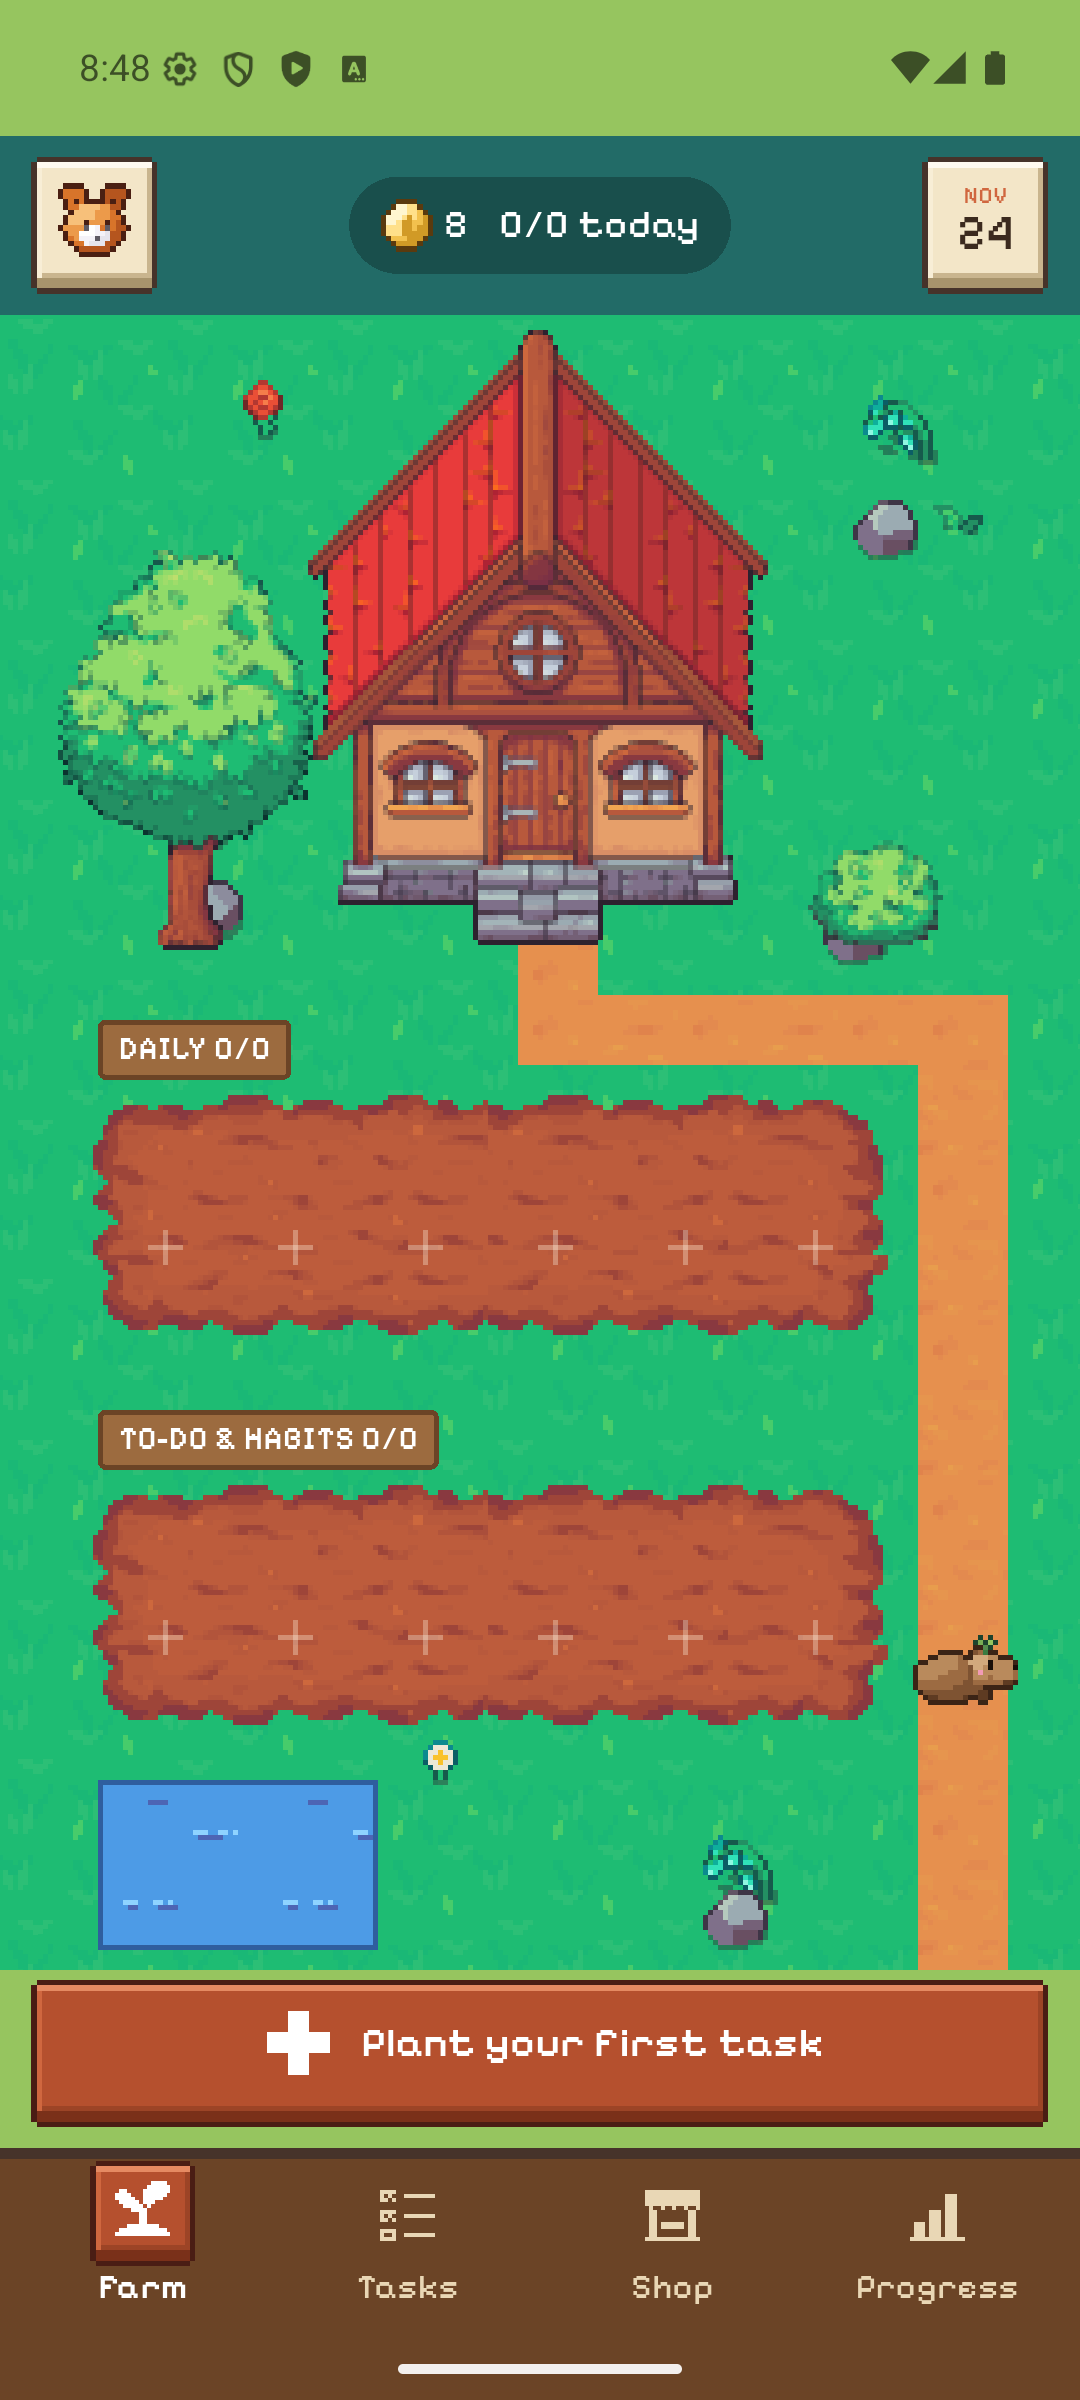
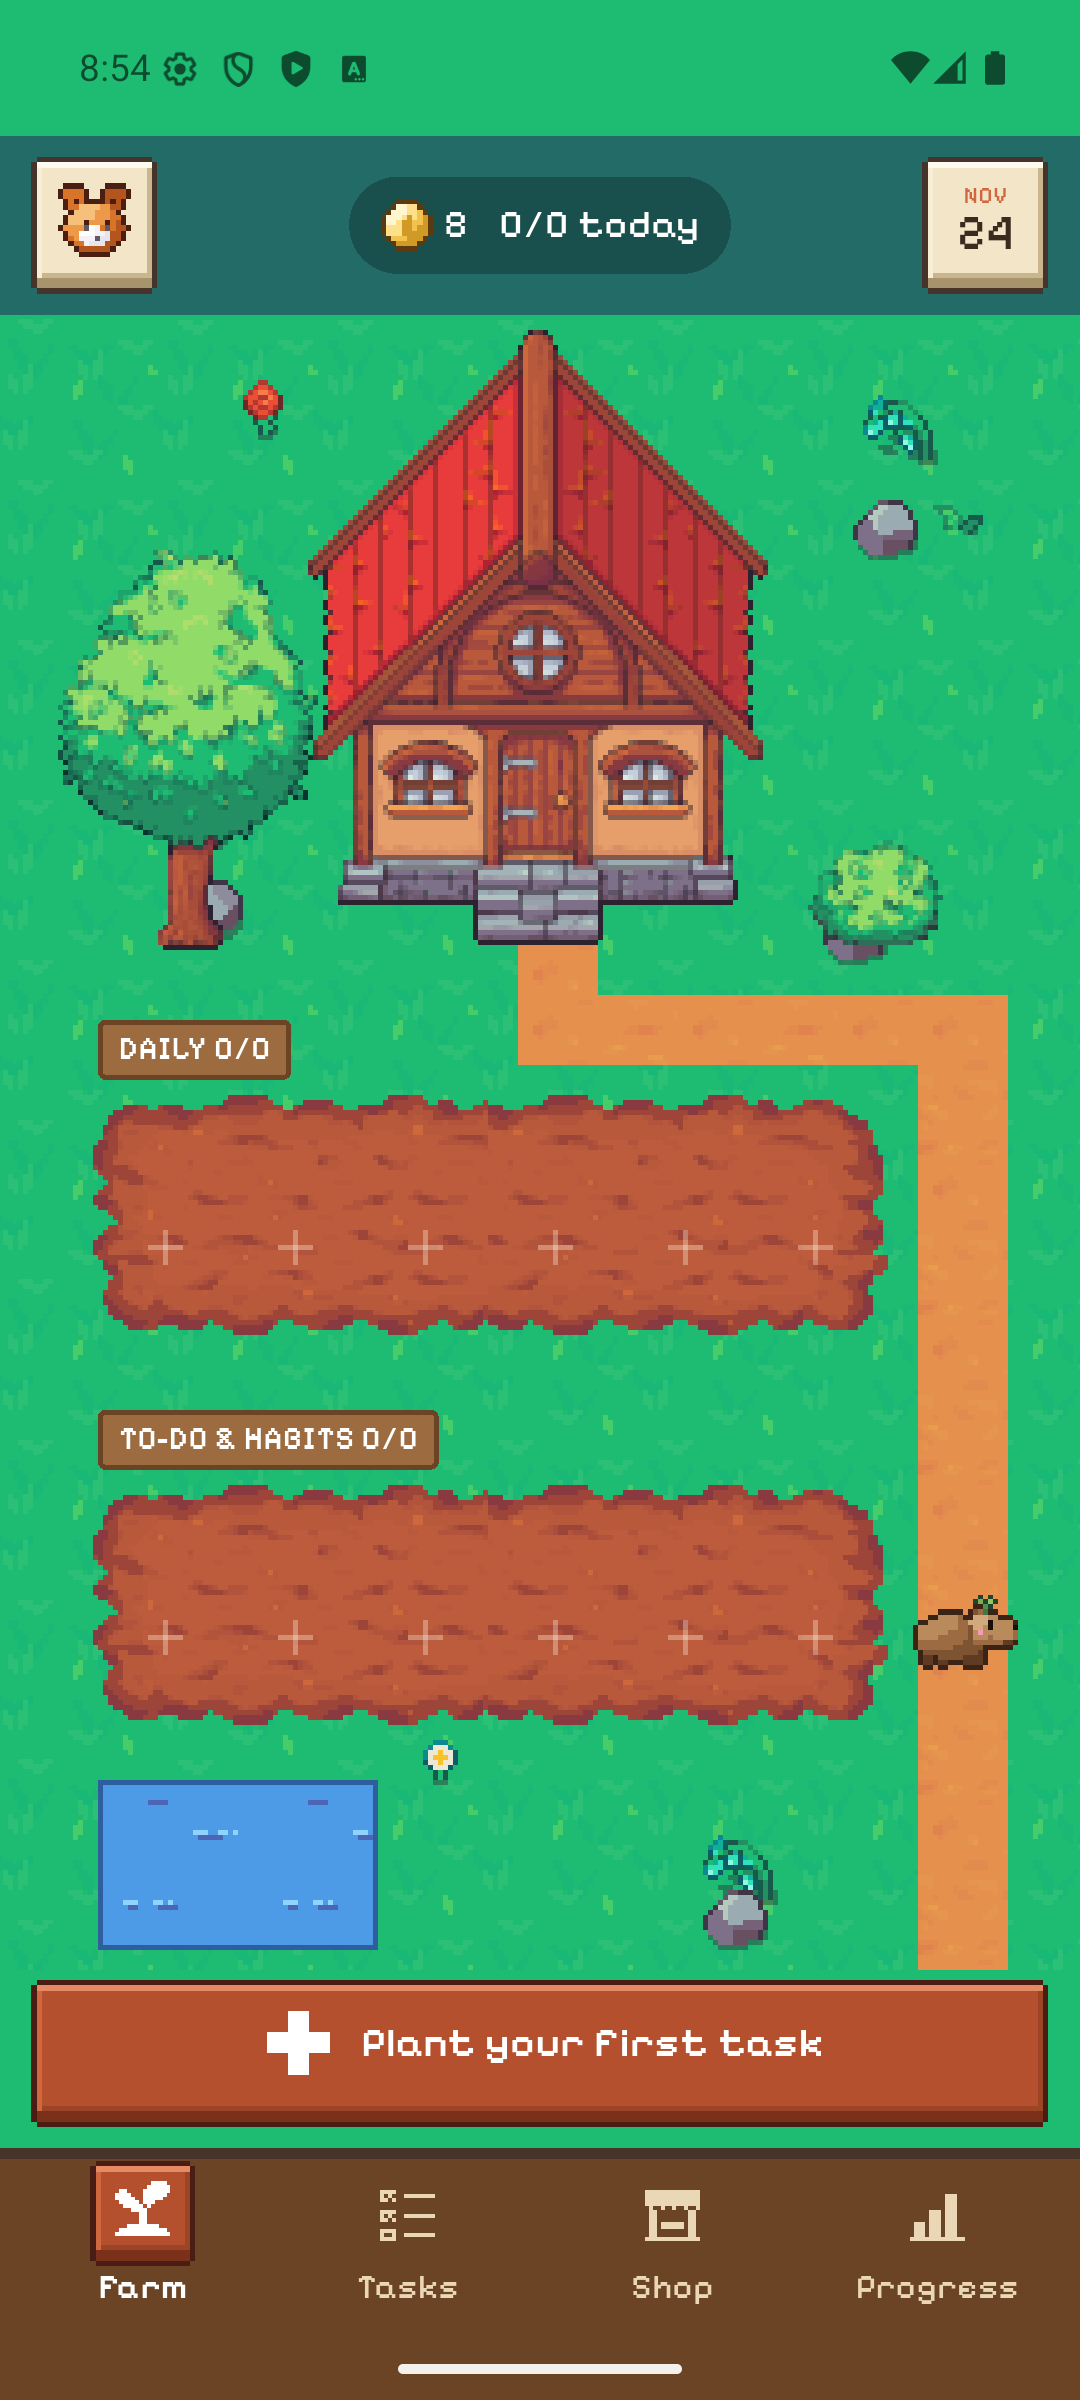
Farm bar/background colour matches the new grass tile (no band around Next up)

Changed region(s): [[0.0, 0.8125, 1.0, 0.9062], [0.0, 0.0, 1.0, 0.0625], [0.825, 0.6562, 0.9472, 0.7188]]

diff --git a/app/lib/features/farm/farm_screen.dart b/app/lib/features/farm/farm_screen.dart
@@ -25,7 +25,8 @@ import '../../game/farm_layout.dart';
 import '../tasks/plant_task_sheet.dart';
 import 'farm_view.dart';
 
-const kGrass = Color(0xFF96C55F);
+/// Matches the farm grass tile (user art), so no band shows around the scene.
+const kGrass = Color(0xFF1EBC73);
 
 /// Farm (home): Flame scene + Flutter overlays (labels, taps, bubble, Next up).
 class FarmScreen extends ConsumerStatefulWidget {
